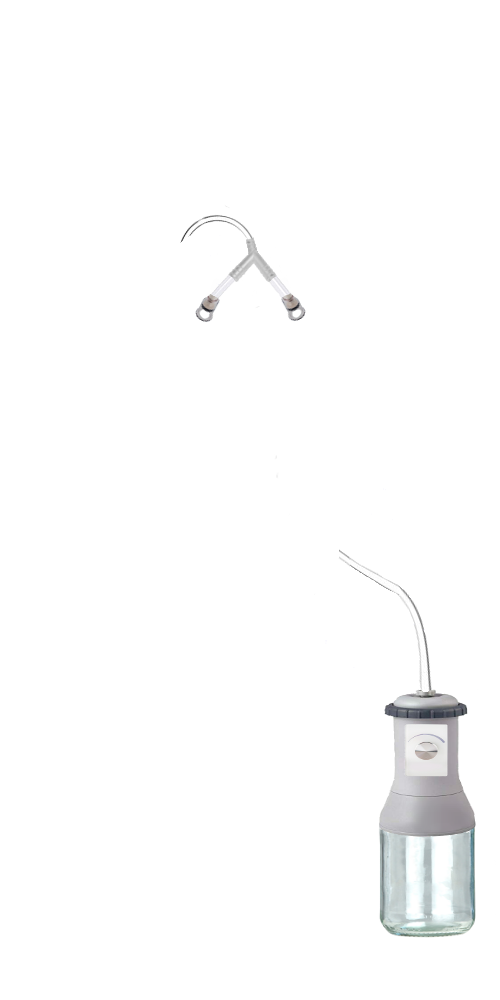
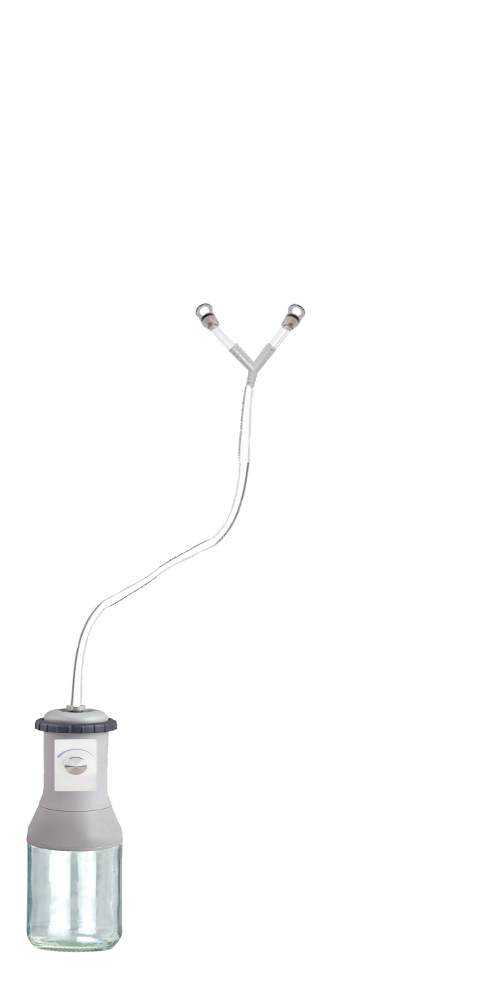
Asset fix
More poses are compatable
looks nicer over all
(code still needed as well as suspention and suspention hogtie)

diff --git a/BondageClub/Assets/Female3DCG/Female3DCG.js b/BondageClub/Assets/Female3DCG/Female3DCG.js
@@ -1289,7 +1289,7 @@ var AssetFemale3DCG = [
 			{ Name: "Clothespins", Value: 15, Time: 10, Prerequisite: "AccessBreast", ExpressionTrigger: [{ Name: "Closed", Group: "Eyes", Timer: 5 }, { Name: "Angry", Group: "Eyebrows", Timer: 5 }] },
 			{ Name: "NippleWeightClamps", Value: 35, Time: 10, Prerequisite: "AccessBreast", ExpressionTrigger: [{ Name: "Closed", Group: "Eyes", Timer: 5 }, { Name: "Angry", Group: "Eyebrows", Timer: 10 }] },
 			{ Name: "BellClamps", Value: 20, Time: 10, Prerequisite: "AccessBreast", ExpressionTrigger: [{ Name: "Closed", Group: "Eyes", Timer: 5 }, { Name: "Angry", Group: "Eyebrows", Timer: 10 }] },
-			{ Name: "LactationPump", Value: 130, Top:0, Priority:38, Left:0, Time: 10, Prerequisite: ["AccessBreast", "NotKnelling", "NotSuspended", "NotHogtied", "CannotBeSuited"], Hide: ["ItemNipplesPiercings"], Effect: ["BlockKneel"], ExpressionTrigger: [{ Name: "Closed", Group: "Eyes", Timer: 5 }, { Name: "Angry", Group: "Eyebrows", Timer: 5 }], Extended: true },
+			{ Name: "LactationPump", Value: 130, Top:0, Priority:38, Left:0, Time: 10, Prerequisite: ["AccessBreast", "CannotBeSuited"], AllowPose:["Kneel", "Hogtied", "SuspensionHogtied"],   Hide: ["ItemNipplesPiercings"], ExpressionTrigger: [{ Name: "Closed", Group: "Eyes", Timer: 5 }, { Name: "Angry", Group: "Eyebrows", Timer: 5 }], Extended: true },
 			AssetSpankingToys
 		],
 		Color: ["Default"]
@@ -1469,7 +1469,7 @@ var AssetFemale3DCG = [
 			{ Name: "Chains", Value: 90, Difficulty: 5, SelfBondage: 3, Time: 30, AllowLock: true, BuyGroup: "Chains", SetPose: ["BackBoxTie"], Effect: ["Block", "Prone"], AllowBlock: ["ItemHands", "ItemLegs", "ItemFeet", "ItemBoots", "ItemDevices"], AllowEffect: ["Freeze", "Block", "Prone", "ForceKneel"], AllowType: ["Hogtied", "SuspensionHogtied", "AllFours", "WristTie", "WristElbowTie", "ChainCuffs", "WristElbowHarnessTie"], Extended: true, RemoveItemOnRemove: [{ Name: "SuspensionChains", Group: "ItemHidden" }] },
 			{ Name: "ChainLeashHolding", Priority: 36, Value: -1, Difficulty: 1, Time: 3, RemoveTime: 3, Random: false, Prerequisite: ["NotSuspended", "NotHogtied"] },
 			{
-				Name: "PetCrawler", Priority: 39, Value: 80, Difficulty: 10, SelfBondage: 7, Time: 20, Random: false, AllowLock: true, Prerequisite: ["NoItemFeet", "NoItemLegs", "LegsOpen", "NotMounted", "NotHorse", "NotSuspended", "NotYoked", "NotKneelingSpread", "NoFeetSpreader", "StraitDressOpen"], Hide: ["ItemBoots", "Suit", "Panties", "Bra"],
+				Name: "PetCrawler", Priority: 36, Value: 80, Difficulty: 10, SelfBondage: 7, Time: 20, Random: false, AllowLock: true, Prerequisite: ["NoItemFeet", "NoItemLegs", "LegsOpen", "NotMounted", "NotHorse", "NotSuspended", "NotYoked", "NotKneelingSpread", "NoFeetSpreader", "StraitDressOpen"], Hide: ["ItemBoots", "Suit", "Panties", "Bra"],
 				HideItem: ["ItemButtRaccoonTailPlug", "TailStrapsRaccoonTailStrap", "ItemButtKittenTail1", "TailStrapsKittenTail1", "ItemNipplesPiercingsNippleChastityPiercing2", "ItemTorsoAdultBabyHarness", "ItemTorsoCorset2", "ItemTorsoCorset3", "ItemNipplesPiercingsNippleChastityPiercing1", "ItemNipplesChainTassles", "ItemNipplesHeartPasties", "ItemNipplesNippleTape", "ItemNipplesKittyPasties"],
 				SetPose: ["AllFours"],
 				Effect: ["Block", "Prone", "ForceKneel"],
